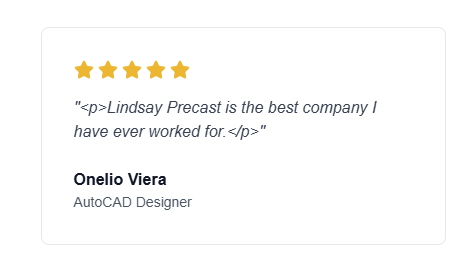
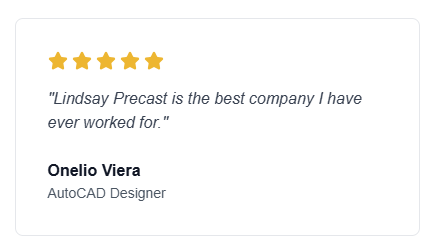
Add author image, company, and rating support to testimonials on homepage
- Update Testimonial interface with authorImage, authorCompany, rating fields
- Display author image as circular avatar next to name
- Use actual rating value for star display
- Show company name after title if available

diff --git a/src/app/page.tsx b/src/app/page.tsx
@@ -39,6 +39,9 @@ interface Testimonial {
     quote: string;
     authorName: string;
     authorTitle: string;
+    authorImage?: string;
+    authorCompany?: string;
+    rating?: number;
   };
 }
 
@@ -282,22 +285,39 @@ export default async function Home() {
             <div className="grid md:grid-cols-3 gap-8">
               {testimonials.map((testimonial: Testimonial, index: number) => (
                 <ScrollAnimation key={testimonial._id} animation="fade-up" delay={index * 150}>
-                  <div className="bg-white rounded-lg border border-gray-200 p-8 hover:shadow-lg transition h-full">
+                  <div className="bg-white rounded-lg border border-gray-200 p-8 hover:shadow-lg transition h-full flex flex-col">
                     <div className="flex gap-1 mb-4">
                       {[...Array(5)].map((_, i) => (
-                        <Star key={i} className="w-5 h-5 text-yellow-500 fill-yellow-500" />
+                        <Star 
+                          key={i} 
+                          className={`w-5 h-5 ${
+                            i < (testimonial.data.rating || 5) 
+                              ? 'text-yellow-500 fill-yellow-500' 
+                              : 'text-gray-200'
+                          }`} 
+                        />
                       ))}
                     </div>
-                    <p className="text-gray-700 mb-6 italic">
+                    <p className="text-gray-700 mb-6 italic flex-1">
                       &quot;{stripHtmlTags(testimonial.data.quote)}&quot;
                     </p>
-                    <div>
-                      <p className="font-semibold text-gray-900">
-                        {testimonial.data.authorName}
-                      </p>
-                      <p className="text-sm text-gray-600">
-                        {testimonial.data.authorTitle}
-                      </p>
+                    <div className="flex items-center gap-3">
+                      {testimonial.data.authorImage && (
+                        <img
+                          src={testimonial.data.authorImage}
+                          alt={testimonial.data.authorName}
+                          className="w-12 h-12 rounded-full object-cover flex-shrink-0"
+                        />
+                      )}
+                      <div>
+                        <p className="font-semibold text-gray-900">
+                          {testimonial.data.authorName}
+                        </p>
+                        <p className="text-sm text-gray-600">
+                          {testimonial.data.authorTitle}
+                          {testimonial.data.authorCompany && `, ${testimonial.data.authorCompany}`}
+                        </p>
+                      </div>
                     </div>
                   </div>
                 </ScrollAnimation>
